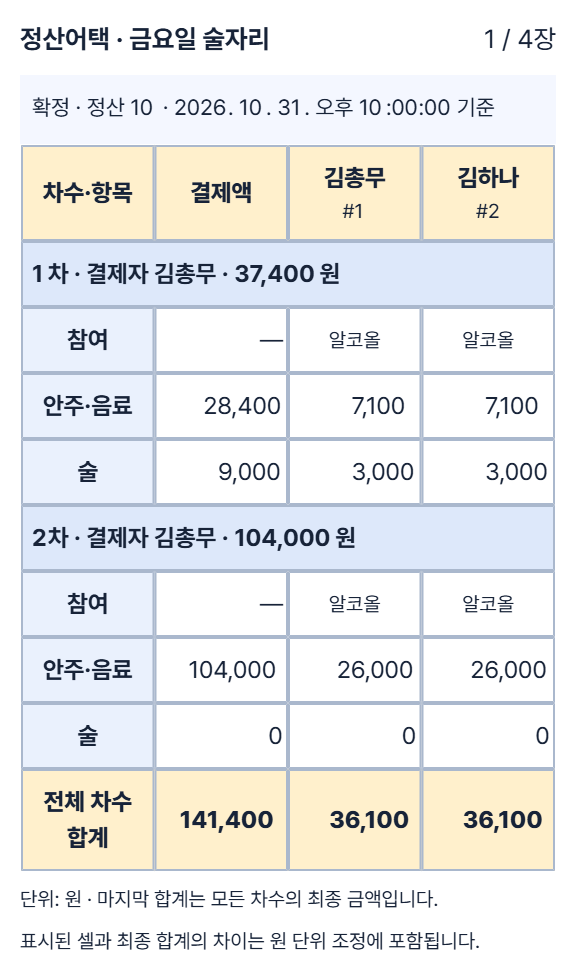
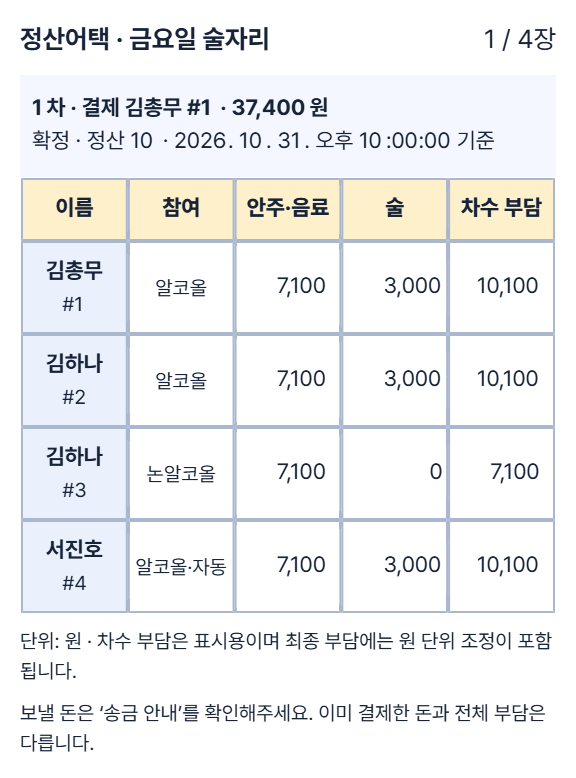
feat(settlement): 참여자를 세로 행으로 표시

diff --git a/src/jeongsan/v3/SettlementTablePanel.tsx b/src/jeongsan/v3/SettlementTablePanel.tsx
@@ -1,6 +1,6 @@
 import { useEffect, useRef, useState } from 'react'
 import { fetchSettlementTable, capturePages, cellNote } from './settlementTable'
-import type { SettlementTable, TableLine, TableRound, TableAdjustment } from './settlementTable'
+import type { SettlementTable, TablePage } from './settlementTable'
 import { messageOf } from './gateway'
 import { won } from './model'
 import './guest.css'
@@ -22,27 +22,29 @@ export function SettlementTablePanel({ gatheringId, unitId, onClose }: { gatheri
       <h2>{view.title} · 정산표</h2>
       <p>{view.isEstimate ? '응답이 바뀌면 금액도 바뀌는 예상 표예요.' : '확정된 정산표예요.'} 캡처한 이미지는 자동으로 갱신되지 않아요.</p>
       <p className="js-hint">안주·음료는 함께 나누고 술은 알코올 참여자끼리 나눠요. 셀의 원 미만 금액은 하단 조정에 반영되어 최종 합계와 일치해요.</p>
-      {capture ? <><p>모든 사람과 차수를 여러 장으로 나눴어요. 각 장을 캡처하거나 이미지로 열어 저장해주세요.</p>{capturePages(view).map((page, index, pages) => <CaptureCard key={`${revision}-${index}`} view={view} page={page} index={index} count={pages.length} />)}</> : <><div className="js-table-scroll" tabIndex={0} role="region" aria-label="가로로 넘기는 전체 정산표"><MoneyTable view={view} lines={view.table.lines} rounds={view.table.rounds} adjustments={view.table.adjustments} /></div><TransferList view={view} transfers={view.table.transfers} /></>}
+      {capture ? <><p>참여자를 한 줄씩 표시하고, 긴 표는 8행씩 나눴어요. 각 장을 캡처하거나 이미지로 열어 저장해주세요.</p>{capturePages(view).map((page, index, pages) => <CaptureCard key={`${revision}-${index}`} view={view} page={page} index={index} count={pages.length} />)}</> : capturePages(view, Number.MAX_SAFE_INTEGER).map((page, index) => <MoneyTable key={index} view={view} page={page} />)}
     </>}
   </section>
 }
 
-function MoneyTable({ view, lines, rounds, adjustments }: { view: SettlementTable; lines: TableLine[]; rounds: TableRound[]; adjustments: TableAdjustment[] }) {
-  const nameOf = (participantId: number) => view.table.lines.find((line) => line.participantId === participantId)?.name ?? '결제자'
-  return <table className="js-money-table"><caption>{view.isEstimate ? '예상' : '확정'} · 정산 {view.settlementUnitId} · {new Date(view.generatedAt).toLocaleString('ko-KR')} 기준</caption>
-    <thead><tr><th scope="col">차수·항목</th><th scope="col">결제액</th>{lines.map((line) => <th scope="col" key={line.participantId}>{line.name}<small>#{line.participantId}</small></th>)}</tr></thead>
-    <tbody>{rounds.map((round) => <RoundRows key={round.roundId} round={round} lines={lines} payer={nameOf(round.payerParticipantId)} />)}
-      {adjustments.map((adjustment) => <tr key={adjustment.recipientParticipantId}><th scope="row">원 단위 조정<small>{nameOf(adjustment.recipientParticipantId)} 결제분</small></th><td>—</td>{lines.map((line) => <td key={line.participantId}><Amount value={adjustment.cells[String(line.participantId)] ?? 0} /></td>)}</tr>)}
-    </tbody>
-    <tfoot><tr><th scope="row">전체 차수 합계</th><td><Amount value={view.table.grandTotal} /></td>{lines.map((line) => <td key={line.participantId}><Amount value={line.total} /></td>)}</tr></tfoot>
+function MoneyTable({ view, page }: { view: SettlementTable; page: TablePage }) {
+  const nameOf = (id: number) => `${view.table.lines.find((line) => line.participantId === id)?.name ?? '참여자'} #${id}`
+  const round = page.round
+  const title = round ? `${round.seq}차 · 결제 ${nameOf(round.payerParticipantId)} · ${won(round.total)}`
+    : page.adjustment ? `원 단위 조정 · ${nameOf(page.adjustment.recipientParticipantId)} 결제분`
+      : page.kind === 'summary' ? `전체 정산 · 총 결제 ${won(view.table.grandTotal)}` : '송금 안내'
+  const headings = round ? ['이름', '참여', '안주·음료', '술', '차수 부담'] : page.adjustment ? ['이름', '조정액'] : page.kind === 'summary' ? ['이름', '전체 부담', '이미 결제'] : ['보내는 사람', '받는 사람', '금액']
+  return <table className="js-money-table" data-kind={page.kind}><caption><b>{title}</b><br />{view.isEstimate ? '예상' : '확정'} · 정산 {view.settlementUnitId} · {new Date(view.generatedAt).toLocaleString('ko-KR')} 기준</caption>
+    <thead><tr>{headings.map((heading) => <th scope="col" key={heading}>{heading}</th>)}</tr></thead>
+    <tbody>{page.lines.map((line) => {
+      const cell = round?.cells.find((candidate) => candidate.participantId === line.participantId)
+      return <tr key={line.participantId}><th scope="row">{line.name}<small>#{line.participantId}</small></th>
+        {round ? <><td className="js-cell-note">{cell ? cellNote(cell) : '—'}</td><td><Amount value={cell?.food} /></td><td><Amount value={cell?.alcohol} /></td><td><Amount value={cell?.amount} /></td></>
+          : page.adjustment ? <td><Amount value={page.adjustment.cells[String(line.participantId)] ?? 0} /></td>
+            : <><td><Amount value={line.total} /></td><td><Amount value={line.paidTotal} /></td></>}
+      </tr>
+    })}{page.transfers.map((transfer) => <tr key={`${transfer.fromParticipantId}-${transfer.toParticipantId}`}><th scope="row">{nameOf(transfer.fromParticipantId)}</th><td>{nameOf(transfer.toParticipantId)}</td><td><Amount value={transfer.amount} /></td></tr>)}</tbody>
   </table>
-}
-function RoundRows({ round, lines, payer }: { round: TableRound; lines: TableLine[]; payer: string }) {
-  return <>
-    <tr className="js-round-heading"><th colSpan={lines.length + 2} scope="rowgroup">{round.seq}차 · 결제자 {payer} · {won(round.total)}</th></tr>
-    <tr><th scope="row">참여</th><td>—</td>{lines.map((line) => { const cell = round.cells.find((candidate) => candidate.participantId === line.participantId); return <td className="js-cell-note" key={line.participantId}>{cell ? cellNote(cell) : '—'}</td> })}</tr>
-    {(['food', 'alcohol'] as const).map((item) => <tr key={item}><th scope="row">{item === 'food' ? '안주·음료' : '술'}</th><td><Amount value={item === 'food' ? round.foodTotal : round.alcoholTotal} /></td>{lines.map((line) => <td key={line.participantId}><Amount value={round.cells.find((cell) => cell.participantId === line.participantId)?.[item]} /></td>)}</tr>)}
-  </>
 }
 
 function Amount({ value }: { value?: number }) {
@@ -66,14 +68,8 @@ function CaptureCard({ view, page, index, count }: { view: SettlementTable; page
     finally { setBusy(false) }
   }
   return <article className="js-capture-page">
-    <div ref={card} className="js-capture-card"><header><b>정산어택 · {view.title}</b><span>{index + 1} / {count}장</span></header><MoneyTable view={view} {...page} /><TransferList view={view} transfers={page.transfers} /><p>단위: 원 · 마지막 합계는 모든 차수의 최종 금액입니다.</p><p>표시된 셀과 최종 합계의 차이는 원 단위 조정에 포함됩니다.</p></div>
+    <div ref={card} className="js-capture-card"><header><b>정산어택 · {view.title}</b><span>{index + 1} / {count}장</span></header><MoneyTable view={view} page={page} /><p>단위: 원 · 차수 부담은 표시용이며 최종 부담에는 원 단위 조정이 포함됩니다.</p><p>보낼 돈은 ‘송금 안내’를 확인해주세요. 이미 결제한 돈과 전체 부담은 다릅니다.</p></div>
     <button className="js-mini" disabled={busy} onClick={() => { void renderImage() }}>{busy ? '이미지 만드는 중…' : `${index + 1}장 이미지로 보기`}</button>
     {error && <p role="alert">{error}</p>}{image && <div><p>이미지를 길게 눌러 저장하거나 화면을 캡처해주세요.</p><img className="js-capture-image" src={image} alt={`${view.title} 정산표 ${index + 1}/${count}장`} /><button className="js-mini" onClick={() => setImage('')}>이미지 닫기</button></div>}
   </article>
-}
-
-function TransferList({ view, transfers }: { view: SettlementTable; transfers: SettlementTable['table']['transfers'] }) {
-  if (!transfers.length) return null
-  const nameOf = (participantId: number) => `${view.table.lines.find((line) => line.participantId === participantId)?.name ?? '참여자'} (#${participantId})`
-  return <section><h3>{view.isEstimate ? '예상 송금 안내' : '송금 안내'}</h3><ul>{transfers.map((transfer) => <li key={`${transfer.fromParticipantId}-${transfer.toParticipantId}`}>{nameOf(transfer.fromParticipantId)} → {nameOf(transfer.toParticipantId)} · {won(transfer.amount)}</li>)}</ul></section>
 }

diff --git a/qa/fc028.tsx b/qa/fc028.tsx
@@ -17,6 +17,7 @@ const table: SettlementTable = { gatheringId: 1, settlementUnitId: 10, title: pr
     cells: [1, 2, 3, 4].map((participantId, cellIndex) => ({ participantId, type: cellIndex === 2 ? 'SOBER' : 'DRANK', food: index ? 26000 : 7100, alcohol: index ? 0 : [3000, 3000, 0, 3000][cellIndex], amount: index ? 26000 : [10100, 10100, 7100, 10100][cellIndex], source: cellIndex === 3 ? 'AUTO' : 'SELF' })) })),
   adjustments: [], grandTotal: 141400, transfers: [2, 3, 4].map((participantId, index) => ({ fromParticipantId: participantId, toParticipantId: 1, amount: [36100, 33100, 36100][index] })),
 } }
+let activeTable = table
 const json = (body: unknown, status = 200) => new Response(status === 204 ? null : JSON.stringify(body), { status })
 window.fetch = async (input, init) => {
   const url = new URL(String(input), window.location.origin)
@@ -24,7 +25,7 @@ window.fetch = async (input, init) => {
   if (path.endsWith('/auth/me')) return json({ code: 'UNAUTHENTICATED' }, 401)
   if (path === '/api/v1/join/fixture') return json(preview)
   if (path === '/api/v1/guest/session') return json(null, 204)
-  if (path.endsWith('/settlement/table')) return json(table)
+  if (path.endsWith('/settlement/table')) return json(activeTable)
   if (path === '/api/v1/guest/gatherings/1/me') return me ? json(me) : json({ code: 'NOT_PARTICIPANT' }, 403)
   if (path === '/api/v1/guest/join/fixture') {
     const body = JSON.parse(String(init?.body))
@@ -40,6 +41,15 @@ export function Harness() {
   const [host, setHost] = useState(false)
   const [version, setVersion] = useState(0)
   const [width, setWidth] = useState(390)
+  function manyPeople() {
+    const lines = Array.from({ length: 25 }, (_, i) => ({ participantId: i + 1, name: i === 24 ? '긴이름확인참여자' : '김하나', total: i < 12 ? 3000 : 2000, paidTotal: i === 0 ? 62000 : 0 }))
+    activeTable = { ...table, title: '25명 술자리', table: { grandTotal: 62000, lines, adjustments: [],
+      rounds: [1, 2].map((seq) => ({ roundId: seq, seq, payerParticipantId: 1, total: seq === 1 ? 37000 : 25000, foodTotal: 25000, alcoholTotal: seq === 1 ? 12000 : 0, displayTotal: seq === 1 ? 37000 : 25000,
+        cells: lines.map((line, i) => ({ participantId: line.participantId, type: i < 12 ? 'DRANK' : 'SOBER', source: i === 24 ? 'AUTO' : 'SELF', food: 1000, alcohol: seq === 1 && i < 12 ? 1000 : 0, amount: seq === 1 && i < 12 ? 2000 : 1000 })) })),
+      transfers: lines.slice(1).map((line) => ({ fromParticipantId: line.participantId, toParticipantId: 1, amount: line.total })),
+    } }
+    setHost(true); setVersion((value) => value + 1)
+  }
   function saveRenderedImage() {
     const image = document.querySelector<HTMLImageElement>('.js-capture-image')
     if (!image) return
@@ -51,6 +61,6 @@ export function Harness() {
     money = { ...money, status: 'SETTLING', isEstimate: false, settledAt: table.generatedAt, transfers: money.transfers.map((transfer) => ({ ...transfer, id: 1, status: 'WAITING', payout: { bank: '검증은행', accountNo: '00123456789', holder: '김총무' } })) }
     setVersion((value) => value + 1)
   }
-  return <><nav style={{ padding: 12, background: '#fff0cc' }}>로컬 가상 응답 · 운영 데이터 아님 <button onClick={() => setHost(!host)}>{host ? '참여 화면' : '총무 표'}</button><button onClick={settle}>정산 확정 fixture</button><button onClick={() => setWidth(width === 390 ? 320 : 390)}>{width === 390 ? '320px' : '390px'}</button><button onClick={saveRenderedImage}>검증용 PNG 보존</button></nav><div style={{ width, maxWidth: '100%', margin: 'auto' }}>{host ? <div className="js-root"><div className="js-shell"><SettlementTablePanel gatheringId={1} unitId={10} onClose={() => setHost(false)} /></div></div> : <JeongsanApp key={version} route="/jungsan/j/fixture" navigate={() => undefined} />}</div></>
+  return <><nav style={{ padding: 12, background: '#fff0cc' }}>로컬 가상 응답 · 운영 데이터 아님 <button onClick={() => setHost(!host)}>{host ? '참여 화면' : '총무 표'}</button><button onClick={manyPeople}>25명 표</button><button onClick={() => { activeTable = table; setVersion((v) => v + 1) }}>4명 표</button><button onClick={settle}>정산 확정 fixture</button><button onClick={() => setWidth(width === 390 ? 320 : 390)}>{width === 390 ? '320px' : '390px'}</button><button onClick={saveRenderedImage}>검증용 PNG 보존</button></nav><div style={{ width, maxWidth: '100%', margin: 'auto' }}>{host ? <div className="js-root"><div className="js-shell"><SettlementTablePanel key={version} gatheringId={1} unitId={10} onClose={() => setHost(false)} /></div></div> : <JeongsanApp key={version} route="/jungsan/j/fixture" navigate={() => undefined} />}</div></>
 }
 createRoot(document.getElementById('root')!).render(<Harness />)

diff --git a/src/jeongsan/v3/__tests__/guest.test.ts b/src/jeongsan/v3/__tests__/guest.test.ts
@@ -75,23 +75,25 @@ describe('비회원 쿠키와 API 계약', () => {
 })
 
 describe('캡처 페이지 누락 방지', () => {
-  const lines = Array.from({ length: 7 }, (_, index) => ({ participantId: index + 1, name: '동명이인', total: 1000 + index, paidTotal: 0 }))
+  const lines = Array.from({ length: 25 }, (_, index) => ({ participantId: index + 1, name: '동명이인', total: 1000 + index, paidTotal: 0 }))
   const rounds = Array.from({ length: 5 }, (_, index) => ({ roundId: index + 1, seq: index + 1, payerParticipantId: 1, total: 10000, foodTotal: 10000, alcoholTotal: 0, displayTotal: 9999, cells: [] }))
   const adjustments = Array.from({ length: 5 }, (_, index) => ({ recipientParticipantId: index + 1, cells: { '1': -1, '2': 1 } }))
   const transfers = lines.slice(1).map((line) => ({ fromParticipantId: line.participantId, toParticipantId: 1, amount: line.total }))
   const view: SettlementTable = { gatheringId: 1, settlementUnitId: 2, title: '검증', status: 'SETTLING', isEstimate: false, generatedAt: '2026-10-31T12:00:00Z', inputHash: 'fixture', inputRevision: 3, table: { lines, rounds, adjustments, transfers, grandTotal: 50000 } }
   it('동명이인을 ID로 나누며 모든 사람×차수를 정확히 한 번 담는다', () => {
     const pages = capturePages(view)
-    const combinations = pages.flatMap((page) => page.lines.flatMap((line) => page.rounds.map((round) => `${line.participantId}-${round.roundId}`)))
-    expect(combinations).toHaveLength(35)
-    expect(new Set(combinations).size).toBe(35)
-    expect(pages.every((page) => page.lines.length <= 2 && page.rounds.length <= 2 && page.adjustments.length <= 4 && page.transfers.length <= 6)).toBe(true)
+    const combinations = pages.flatMap((page) => page.round ? page.lines.map((line) => `${line.participantId}-${page.round!.roundId}`) : [])
+    expect(combinations).toHaveLength(125)
+    expect(new Set(combinations).size).toBe(125)
+    expect(pages.every((page) => page.lines.length <= 8 && page.transfers.length <= 8)).toBe(true)
+    expect(pages.filter((page) => page.kind === 'summary').flatMap((page) => page.lines)).toEqual(lines)
+    expect(capturePages(view, Number.MAX_SAFE_INTEGER)[0].lines).toEqual(lines)
   })
   it('조정과 송금 안내도 누락/중복 없이 원래 금액으로 전달한다', () => {
     const pages = capturePages(view)
     expect(pages.flatMap((page) => page.transfers)).toEqual(transfers)
     for (const line of lines) {
-      expect(pages.filter((page) => page.lines.some((candidate) => candidate.participantId === line.participantId)).flatMap((page) => page.adjustments)).toEqual(adjustments)
+      expect(pages.filter((page) => page.adjustment && page.lines.some((candidate) => candidate.participantId === line.participantId)).map((page) => page.adjustment)).toEqual(adjustments)
       expect(pages.flatMap((page) => page.lines).find((candidate) => candidate.participantId === line.participantId)?.total).toBe(line.total)
     }
   })
@@ -102,9 +104,17 @@ describe('캡처 페이지 누락 방지', () => {
     expect(cellNote({ ...cell, type: 'EXEMPT', source: 'HOST' })).toBe('면제')
     expect(cellNote({ ...cell, source: 'AUTO' })).toBe('알코올·자동')
   })
-  it('긴 금액은 한 사람씩 나누며 원 금액을 축약하지 않는다', () => {
+  it('긴 금액도 사람을 열로 나누지 않으며 원 금액을 축약하지 않는다', () => {
     const pages = capturePages({ ...view, table: { ...view.table, grandTotal: 1_000_000_000_000 } })
-    expect(pages.every((page) => page.lines.length === 1)).toBe(true)
+    expect(pages[0].lines).toEqual(lines.slice(0, 8))
     expect(pages.flatMap((page) => page.transfers)).toEqual(transfers)
+  })
+  it('10명은 차수마다 8행과 2행으로 나누고 뒤에 요약을 표시한다', () => {
+    const pages = capturePages({ ...view, table: { ...view.table, lines: lines.slice(0, 10), rounds: rounds.slice(0, 1), adjustments: [], transfers: [] } })
+    expect(pages.map((page) => [page.kind, page.lines.length])).toEqual([['round', 8], ['round', 2], ['summary', 8], ['summary', 2]])
+  })
+  it('차수가 비어도 전체 정산은 유지하고 잘못된 행 수는 거절한다', () => {
+    expect(capturePages({ ...view, table: { ...view.table, rounds: [], adjustments: [], transfers: [] } }).every((page) => page.kind === 'summary')).toBe(true)
+    expect(() => capturePages(view, 0)).toThrow(RangeError)
   })
 })

diff --git a/src/jeongsan/v3/settlementTable.ts b/src/jeongsan/v3/settlementTable.ts
@@ -14,24 +14,18 @@ export type SettlementTable = {
 export const fetchSettlementTable = (gatheringId: number, unitId: number) =>
   request<SettlementTable>('GET', `/api/v1/gatherings/${gatheringId}/settlement-units/${unitId}/settlement/table`)
 
-/** 화면 밖 열뿐 아니라 긴 차수 목록도 나눠서 캡처에 누락되지 않게 한다. 금액은 재계산하지 않는다. */
-export function capturePages(view: SettlementTable) {
-  const pages: { lines: TableLine[]; rounds: TableRound[]; adjustments: TableAdjustment[]; transfers: SettlementTable['table']['transfers'] }[] = []
-  const peoplePerPage = view.table.grandTotal.toLocaleString('ko-KR').length > 9 ? 1 : 2
-  for (let personStart = 0; personStart < view.table.lines.length; personStart += peoplePerPage) {
-    const lines = view.table.lines.slice(personStart, personStart + peoplePerPage)
-    for (let roundStart = 0; roundStart < view.table.rounds.length; roundStart += 2) {
-      pages.push({ lines, rounds: view.table.rounds.slice(roundStart, roundStart + 2), adjustments: [], transfers: [] })
-    }
-    // 조정이 많은 정산도 마지막 페이지 높이를 무한히 늘리지 않는다.
-    for (let adjustmentStart = 0; adjustmentStart < view.table.adjustments.length; adjustmentStart += 4) {
-      pages.push({ lines, rounds: [], adjustments: view.table.adjustments.slice(adjustmentStart, adjustmentStart + 4), transfers: [] })
-    }
-    const transfers = view.table.transfers.filter((transfer) => lines.some((line) => line.participantId === transfer.fromParticipantId))
-    for (let transferStart = 0; transferStart < transfers.length; transferStart += 6) {
-      pages.push({ lines, rounds: [], adjustments: [], transfers: transfers.slice(transferStart, transferStart + 6) })
-    }
-  }
+export type TablePage = { kind: 'round' | 'adjustment' | 'summary' | 'transfer'; lines: TableLine[]; round?: TableRound; adjustment?: TableAdjustment; transfers: SettlementTable['table']['transfers'] }
+
+/** 인원이 늘어도 열은 유지하고 긴 캡처만 행으로 나눈다. 금액은 서버 표시값 그대로다. */
+export function capturePages(view: SettlementTable, rowsPerPage = 8): TablePage[] {
+  if (!Number.isSafeInteger(rowsPerPage) || rowsPerPage < 1) throw new RangeError('rowsPerPage must be positive')
+  const pages: TablePage[] = []
+  const groups: TableLine[][] = []
+  for (let start = 0; start < view.table.lines.length; start += rowsPerPage) groups.push(view.table.lines.slice(start, start + rowsPerPage))
+  for (const round of view.table.rounds) for (const lines of groups) pages.push({ kind: 'round', lines, round, transfers: [] })
+  for (const adjustment of view.table.adjustments) for (const lines of groups) pages.push({ kind: 'adjustment', lines, adjustment, transfers: [] })
+  for (const lines of groups) pages.push({ kind: 'summary', lines, transfers: [] })
+  for (let start = 0; start < view.table.transfers.length; start += rowsPerPage) pages.push({ kind: 'transfer', lines: [], transfers: view.table.transfers.slice(start, start + rowsPerPage) })
   return pages
 }
 

diff --git a/src/jeongsan/v3/guest.css b/src/jeongsan/v3/guest.css
@@ -12,7 +12,7 @@
 .js-table-panel { display: grid; gap: 14px; min-width: 0; }
 .js-table-panel h2, .js-table-panel p { margin: 0; }
 .js-table-scroll { max-width: 100%; overflow: auto; border: 1px solid var(--line, #ccd8eb); }
-.js-money-table { border-collapse: collapse; width: 100%; font-variant-numeric: tabular-nums; background: white; color: #172338; font-size: 13px; }
+.js-money-table { border-collapse: collapse; width: 100%; table-layout: fixed; font-variant-numeric: tabular-nums; background: white; color: #172338; font-size: 12px; }
 .js-money-table caption { text-align: left; padding: 9px 6px; font-size: 11px; background: #f4f7ff; }
 .js-money-table th, .js-money-table td { border: 1px solid #aab8cd; padding: 7px 5px; text-align: right; overflow-wrap: anywhere; }
 .js-table-scroll .js-money-table th, .js-table-scroll .js-money-table td { min-width: 76px; white-space: nowrap; }
@@ -21,14 +21,18 @@
 .js-money-table small { display: block; font-size: 10px; font-weight: 400; }
 .js-money-table .js-round-heading th { text-align: left; background: #dde8fa; }
 .js-money-table .js-cell-note { font-size: 10px; text-align: center; }
+.js-money-table[data-kind="round"] { font-size: 11px; }
+.js-money-table[data-kind="round"] th, .js-money-table[data-kind="round"] td { padding: 7px 2px; }
+.js-money-value { white-space: nowrap; }
+.js-money-value[data-long="true"] { white-space: normal; overflow-wrap: anywhere; }
 .js-capture-page { display: grid; gap: 12px; padding-bottom: 20px; border-bottom: 2px solid var(--line, #ccd8eb); }
 .js-capture-card { padding: 10px; background: #fff; color: #172338; }
 .js-capture-card header { display: flex; justify-content: space-between; gap: 8px; margin-bottom: 8px; font-size: 13px; }
 .js-capture-card header b { overflow-wrap: anywhere; }
 .js-capture-card header span { white-space: nowrap; }
-.js-capture-card .js-money-table { table-layout: fixed; font-size: 12px; }
-.js-capture-card .js-money-table td { white-space: nowrap; padding: 7px 2px; }
+.js-capture-card .js-money-table { font-size: 11px; }
+.js-capture-card .js-money-table td { padding: 7px 2px; }
 .js-capture-card .js-money-table td.js-cell-note { white-space: normal; }
-.js-capture-card .js-money-value[data-long="true"] { font-size: 8px; }
+.js-capture-card .js-money-value[data-long="true"] { font-size: 10px; }
 .js-capture-card p { margin-top: 6px; font-size: 10px; }
 .js-capture-image { display: block; max-width: 100%; height: auto; }

diff --git a/docs/FC028.md b/docs/FC028.md
@@ -10,19 +10,20 @@
 - 쿠키 초기화는 동시에 한 번만 실행하고 완료 후 본인을 조회한다. 토큰/계좌를 URL·localStorage에 저장하지 않는다.
 - 빈 이름 오류는 입력칸을 가리지 않으며 포커스가 돌아온다. 전 차수 선택, 재방문, 본인 수정, 제외·만료 안내를 제공한다.
 - 개인 예상/확정 금액·근거·받는 사람 계좌·보냈어요를 연결한다. 은행 송금 자체는 사용자가 한다. 401을 회원 로그인으로 강제 이동시키지 않는다.
-- 로그인한 총무의 웹 정산방에서 ‘정산표 보기 · 캡처’를 누른다. 전체 표와 사람 2명·차수 2개씩 나눈 캡처 표를 제공한다. 긴 금액은 1명씩 나눈다. 조정과 송금 안내도 별도 장으로 나눠 누락하지 않는다.
+- 로그인한 총무의 웹 정산방에서 ‘정산표 보기 · 캡처’를 누른다. 참여자를 세로 행으로 두고 차수별 이름·참여·안주/음료·술·차수 부담을 표시한다. 전체 화면은 인원 제한 없이 이어지고, 캡처만 한 차수당 8명씩 나눈다. 원 단위 조정 뒤 전체 부담·이미 결제 요약과 송금 대상/금액을 붙인다. 서버 값을 재계산하거나 보낼 돈을 부담액과 동일시하지 않는다.
 - 기존 html2canvas-pro로 각 장을 이미지로 열 수 있다. Excel 다운로드·이미지 서버 저장·카카오 자동 전송은 없다.
 - 서버 금액을 표시하며 프론트에서 분배하지 않는다. 안주·음료는 기존 비주류 합계다. 음료 O/X 별도 분배는 미결이다.
 - 회원 ID 없는 참여자를 null로 유지한다. 같은 이름이어도 participantId로 구분하고 비회원에게 회원 알림/차단 계정을 만들지 않는다.
 
 ## 실행한 검증
 
-- 전체 Vitest 274개 통과. 쿠키 초기화 경합·실패 재시도·guest API 경로·평문 오류·캡처 누락·동명이인/비회원 명단 회귀 포함.
+- 전체 Vitest 276개 통과. 쿠키 초기화 경합·실패 재시도·guest API 경로·평문 오류·캡처 누락·동명이인/비회원 명단 회귀 포함. 10명 8+2행, 25명×5차수의 125개 조합과 조정·송금·전체 요약 누락/중복을 검사한다.
 - TypeScript 및 실제 API 주소·jeongsan 타깃 프로덕션 빌드 성공. 빌드의 큰 번들 경고는 남아 있다.
 - 변경 파일 ESLint 검사 통과. 전체 lint는 기존 별도 서비스·픽셀 배경 등의 23개 오류/1개 경고로 실패하며 이 PR이 새로 만든 오류가 아니다.
 - 브라우저의 로컬 가상 API 화면에서 빈 이름 → 재입력 → 참여 → 응답 변경 → 확정 금액 → 보냈어요를 확인했다.
-- 390px·320px 표와 이미지 생성 확인. 320px에서 발견한 숫자 줄바꿈을 인원 분할로 수정하고 셀 넘침 0건을 확인했다.
+- 세로형 320px 표와 이미지 생성 확인. 25명 전체 보기에서 각 차수/요약 25행, 송금 24행이 유지되고 캡처는 8행씩 나뉜다. 4명·25명 화면 모두 셀 넘침 0건을 확인했다.
 - `qa/fc028-capture.png`는 가상 데이터로 실제 화면에서 생성한 첫 번째 장이다. 운영 계좌·참여 정보는 없다.
+- `qa/fc028-vertical-25.png`는 25명 가상 데이터의 첫 8행 캡처다. 전체 표는 세로 스크롤로 모두 확인할 수 있다.
 - 로컬 Windows의 테스트 임시 경로 접근 문제는 일반 실행 환경에서 재실행해 해결했다. 테스트를 건너뛰지 않았다.
 
 ## 재현과 배포 순서
